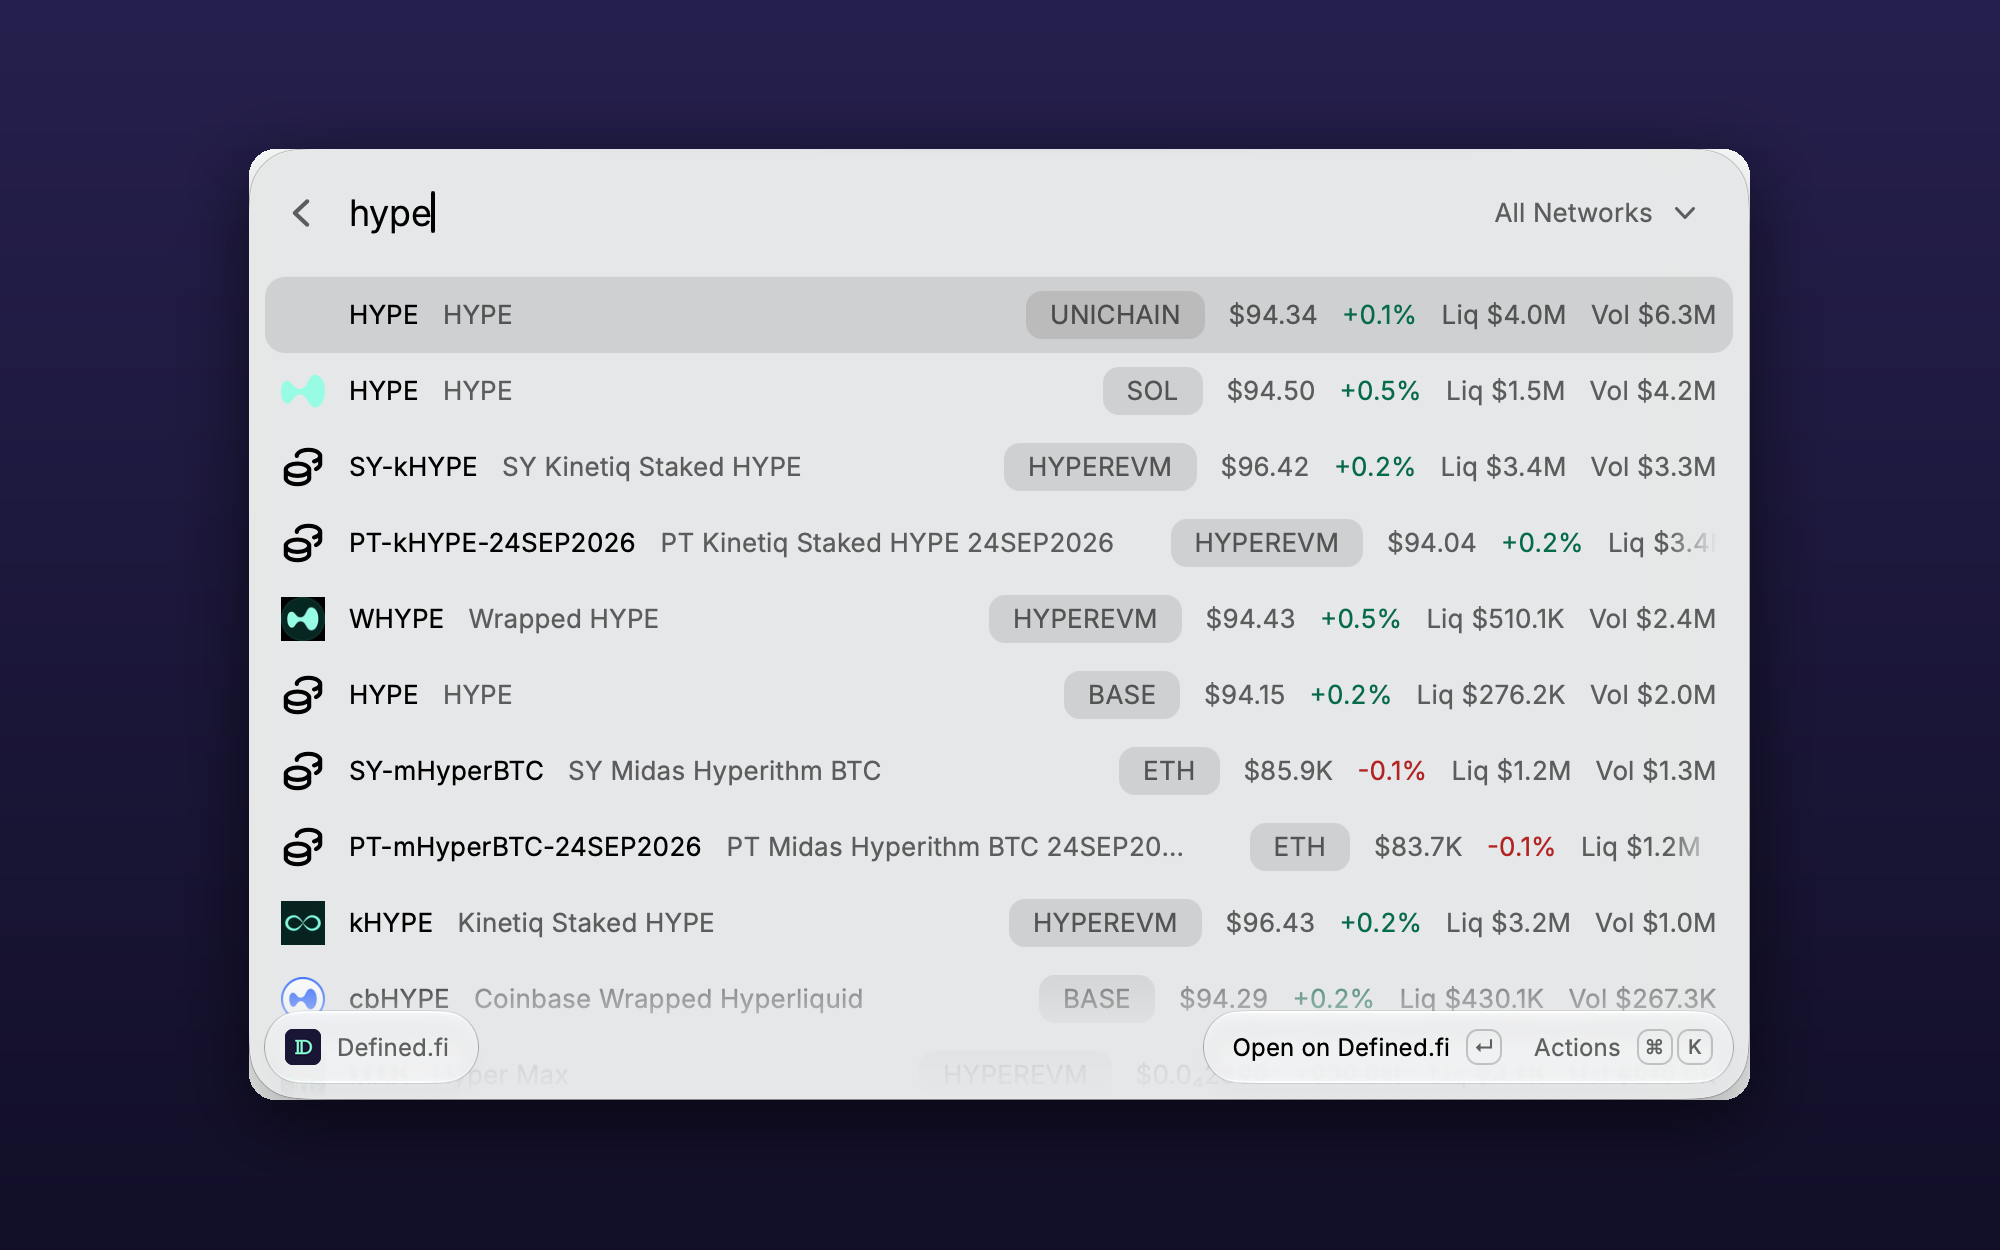
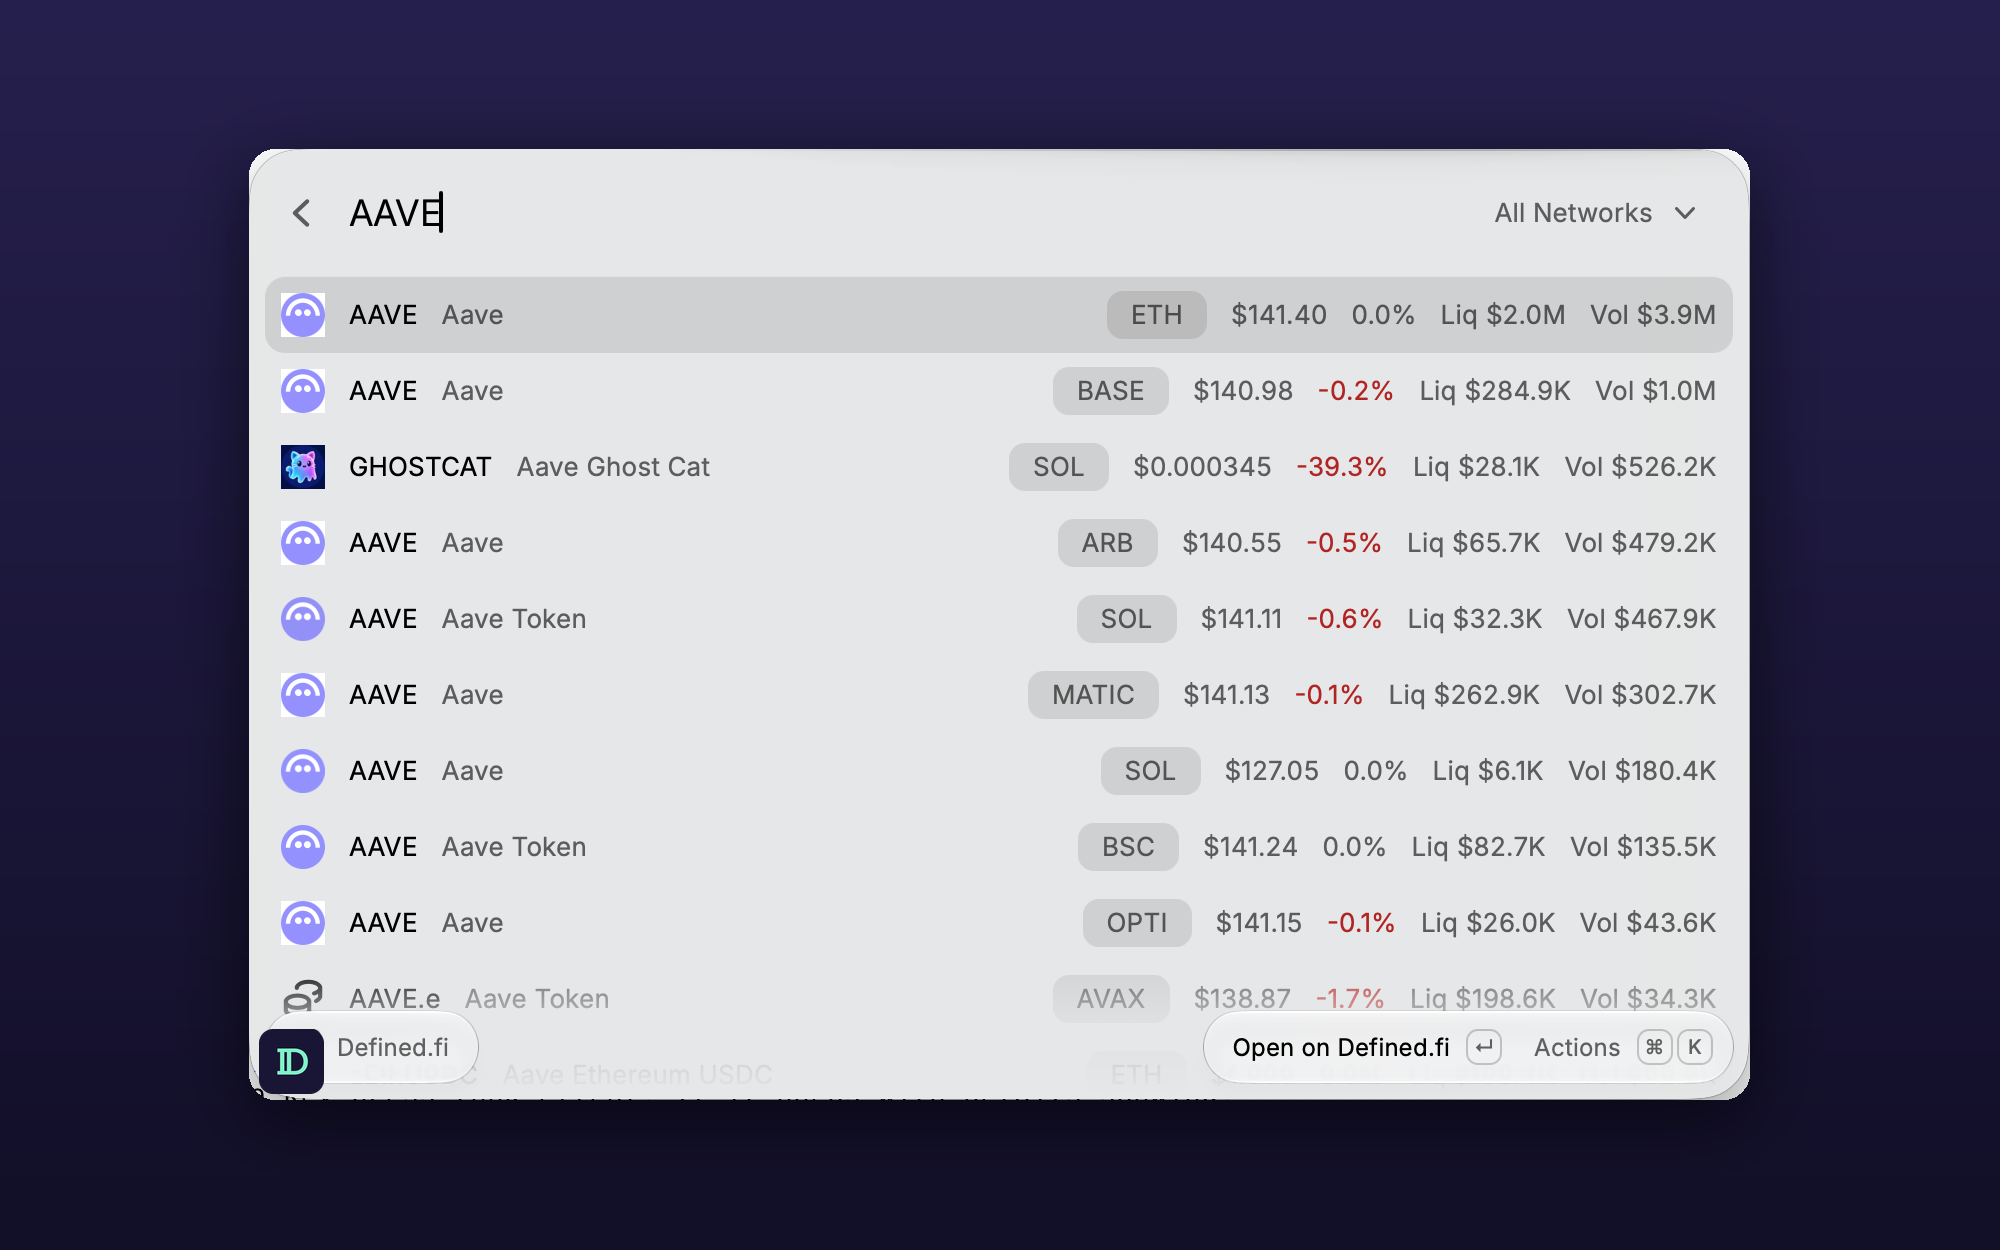
Use AAVE in the first screenshot; show flat changes as 0.0%
HYPE's top result has no token image. A change that rounds to zero read
as a red "-0.0%"; it now reads "0.0%" without color.

Claude-Session: https://claude.ai/code/session_01MwQNPodwGrvtMgZpcbNyou

diff --git a/src/search.tsx b/src/search.tsx
@@ -24,7 +24,7 @@ import { Onboarding } from "./components/Onboarding";
 import { CodexError } from "./lib/types";
 import type { Network, TokenResult } from "./lib/types";
 import { addRecent, clearRecents, getRecents } from "./lib/recents";
-import { formatAddress, formatPercent, formatUsd } from "./lib/format";
+import { formatAddress, formatPercent, formatUsd, isFlatChange } from "./lib/format";
 
 const SEARCH_DEBOUNCE_MS = 300;
 
@@ -423,7 +423,7 @@ async function copyAddress(address: string) {
 }
 
 function changeColor(change?: number): Color | undefined {
-  if (change === undefined || Number.isNaN(change)) return undefined;
+  if (change === undefined || Number.isNaN(change) || isFlatChange(change)) return undefined;
   return change >= 0 ? Color.Green : Color.Red;
 }
 

diff --git a/src/lib/format.ts b/src/lib/format.ts
@@ -70,9 +70,16 @@ function formatSmall(abs: number): string {
  * Formats a fractional 24h change (0.04 means +4 %) as a signed percentage string,
  * e.g. "+4.0%" or "-8.2%". Returns "—" for undefined or NaN.
  */
+/** True when a change rounds to 0.0% and should be shown without color. */
+export function isFlatChange(fraction: number): boolean {
+  return Math.abs(fraction * 100) < 0.05;
+}
+
 export function formatPercent(fraction?: number): string {
   if (fraction === undefined || Number.isNaN(fraction)) return MISSING;
   const pct = fraction * 100;
+  // Changes that round to zero get no sign, so they never read as "-0.0%".
+  if (Math.abs(pct) < 0.05) return "0.0%";
   const sign = pct < 0 ? "-" : "+";
   return `${sign}${Math.abs(pct).toFixed(1)}%`;
 }

diff --git a/src/lib/format.test.ts b/src/lib/format.test.ts
@@ -51,6 +51,12 @@ describe("formatUsd", () => {
 });
 
 describe("formatPercent", () => {
+  it("shows changes that round to zero without a sign", () => {
+    expect(formatPercent(-0.0001)).toBe("0.0%");
+    expect(formatPercent(0.0004)).toBe("0.0%");
+    expect(formatPercent(-0.0006)).toBe("-0.1%");
+  });
+
   it("returns an em dash for undefined", () => {
     expect(formatPercent(undefined)).toBe("—");
   });
@@ -67,8 +73,8 @@ describe("formatPercent", () => {
     expect(formatPercent(-0.082)).toBe("-8.2%");
   });
 
-  it("formats zero as +0.0%", () => {
-    expect(formatPercent(0)).toBe("+0.0%");
+  it("formats zero as 0.0%", () => {
+    expect(formatPercent(0)).toBe("0.0%");
   });
 });
 
